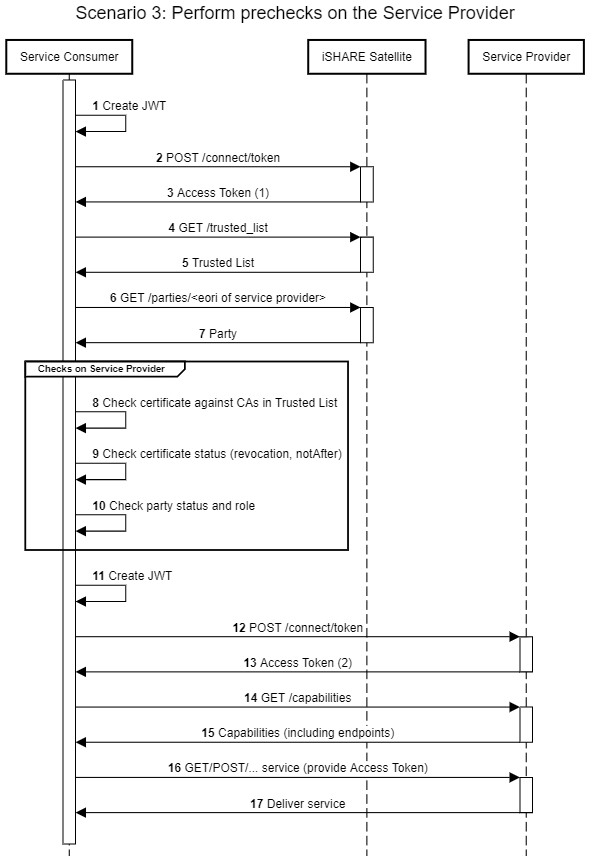
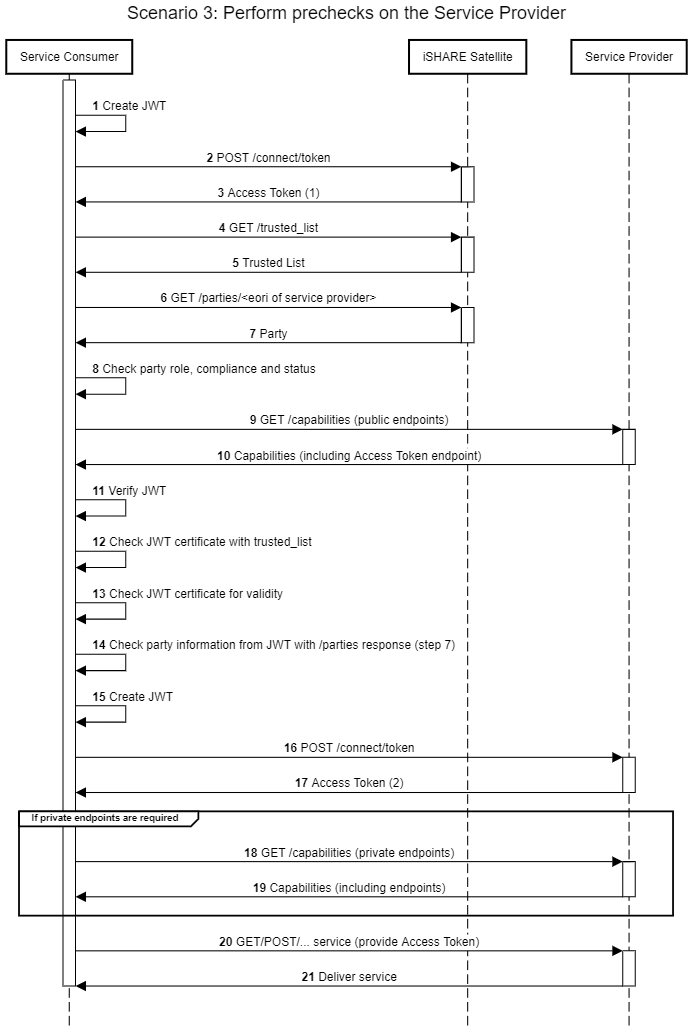
Several improvements on comments in PR

Changed region(s): [[0.0, 0.0, 1.0, 1.0]]

diff --git a/service-consumer/getting-started.rst b/service-consumer/getting-started.rst
@@ -8,19 +8,12 @@ Prerequisites
 
 Make sure you execute the following steps before trying to consume services provided by iSHARE Providers.
 
-.. list-table:: Consuming iSHARE services: prerequisites
-   :widths: 30 35 35
-   :header-rows: 1
-
-   * - Step
-     - iSHARE Staging
-     - iSHARE Production
-   * - Obtain a valid identity (private key + certificate)
-     - `Click here <https://ca7.isharetest.net:8442/ejbca/ra/index.xhtml>`_ to request a test certificate. More information on :ref:`Get Test Certificate section<refGetTestCert>`.
-     - Acquire a certificate from an eIDAS certificate provider.
-   * - Register yourself as iSHARE Consumer
-     - If you want to register at a specific iSHARE Satellite, contact the iSHARE Satellite through their communication channels. A registration via the Scheme Owner is also possible: contact us at support@ishare.eu. 
-     - Register yourself with any iSHARE Satellite using their registration procedure.
+#. Obtain a valid identity (private key + certificate)
+    * **Staging:** `Click here <https://ca7.isharetest.net:8442/ejbca/ra/index.xhtml>`_ to request a test certificate. More information on :ref:`Get Test Certificate section<refGetTestCert>`.
+    * **Production:** Acquire a certificate from an eIDAS certificate provider.
+#. Register yourself as iSHARE Consumer
+    * **Staging:** If you want to register at a specific iSHARE Satellite, contact the iSHARE Satellite through their communication channels. A registration via the Scheme Owner is also possible: contact us at support@ishare.eu. 
+    * **Production:** Register yourself with any iSHARE Satellite using their registration procedure.
 
 Implementation
 --------------
@@ -31,7 +24,7 @@ Every iSHARE Service Provider has implemented 2 standardised endpoints:
 
 As an iSHARE Service Consumer, a minimum implementation requires connecting to the Access Token endpoint. For more information about requesting an Access Token, refer to the section about the :ref:`Access Token Endpoint<refM2MToken>`. The request includes an iSHARE JWT, which is documented :ref:`here<refJWT>`. After obtaining an Access Token, this token can be used to consume services from the Service Provider. These services themselves are not standardised by iSHARE. 
 
-For your implementation, choose one of the following scenarios. A combination of scenarios is possible.
+For your implementation, choose one of the following scenarios. A combination of scenarios is possible. All scenarios assume that a protected service will be consumed.
 
 Scenario 1: Minimum implementation
 ~~~~~~~~~~~~~~~~~~~~~~~~~~~~~~~~~~
